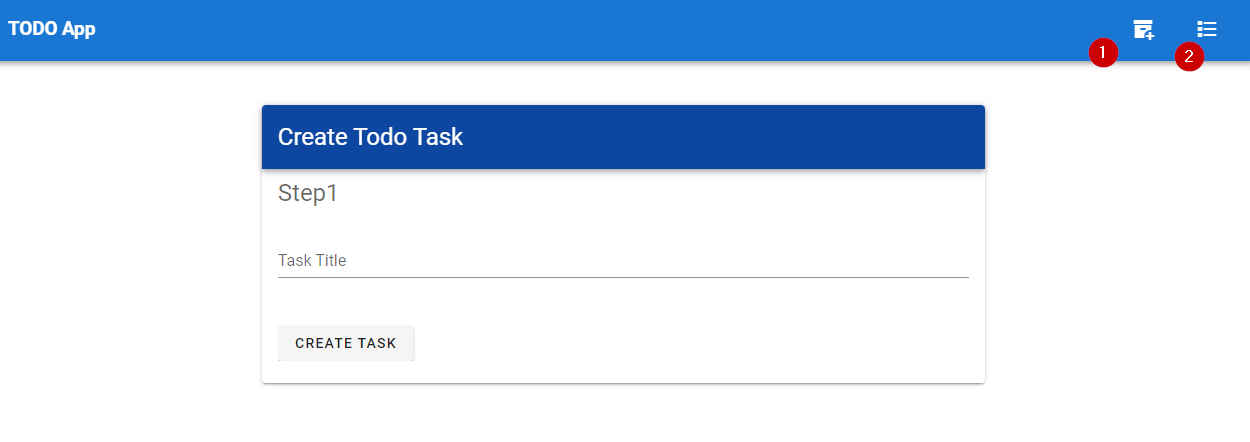
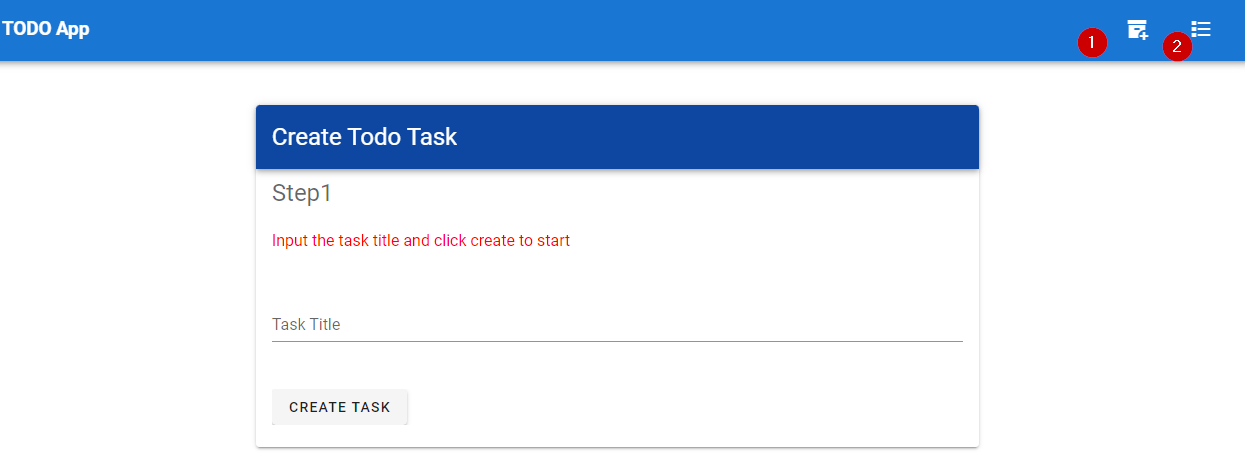
fix the hint state control error

diff --git a/todolist/src/components/CreateTask.vue b/todolist/src/components/CreateTask.vue
@@ -9,7 +9,7 @@
 
                     <v-list two-line subheader>
                         <v-subheader class="headline" v-if="inStep < 4">{{stepTitle}}</v-subheader>
-                        <v-list-item v-if="nStep < 4">
+                        <v-list-item v-if="inStep < 4">
                             <v-list-item-content>
                                 <p style="color:red">{{stepHintText}}</p>
                             </v-list-item-content>
